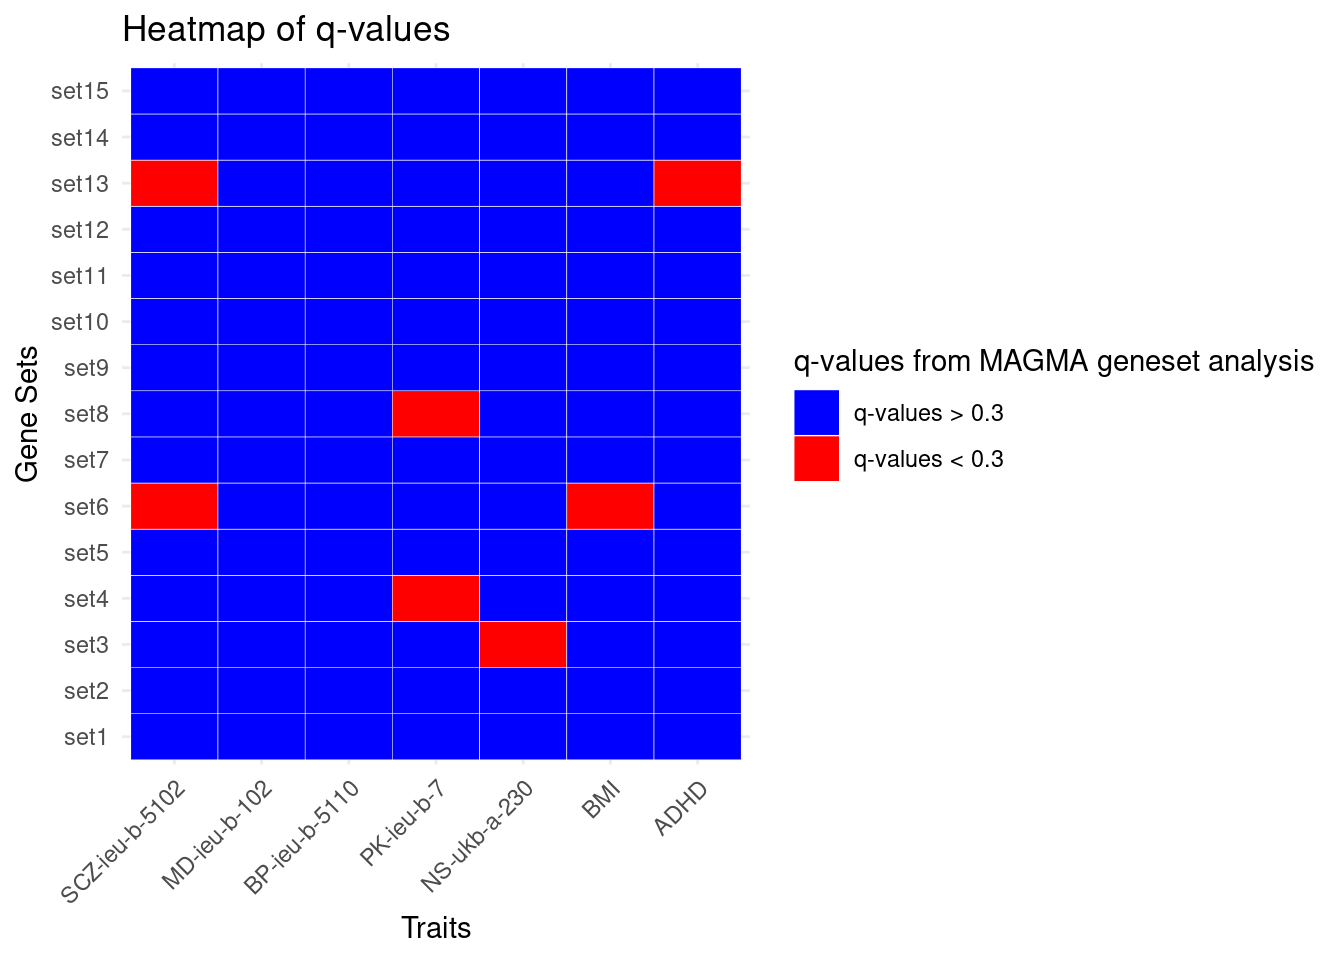
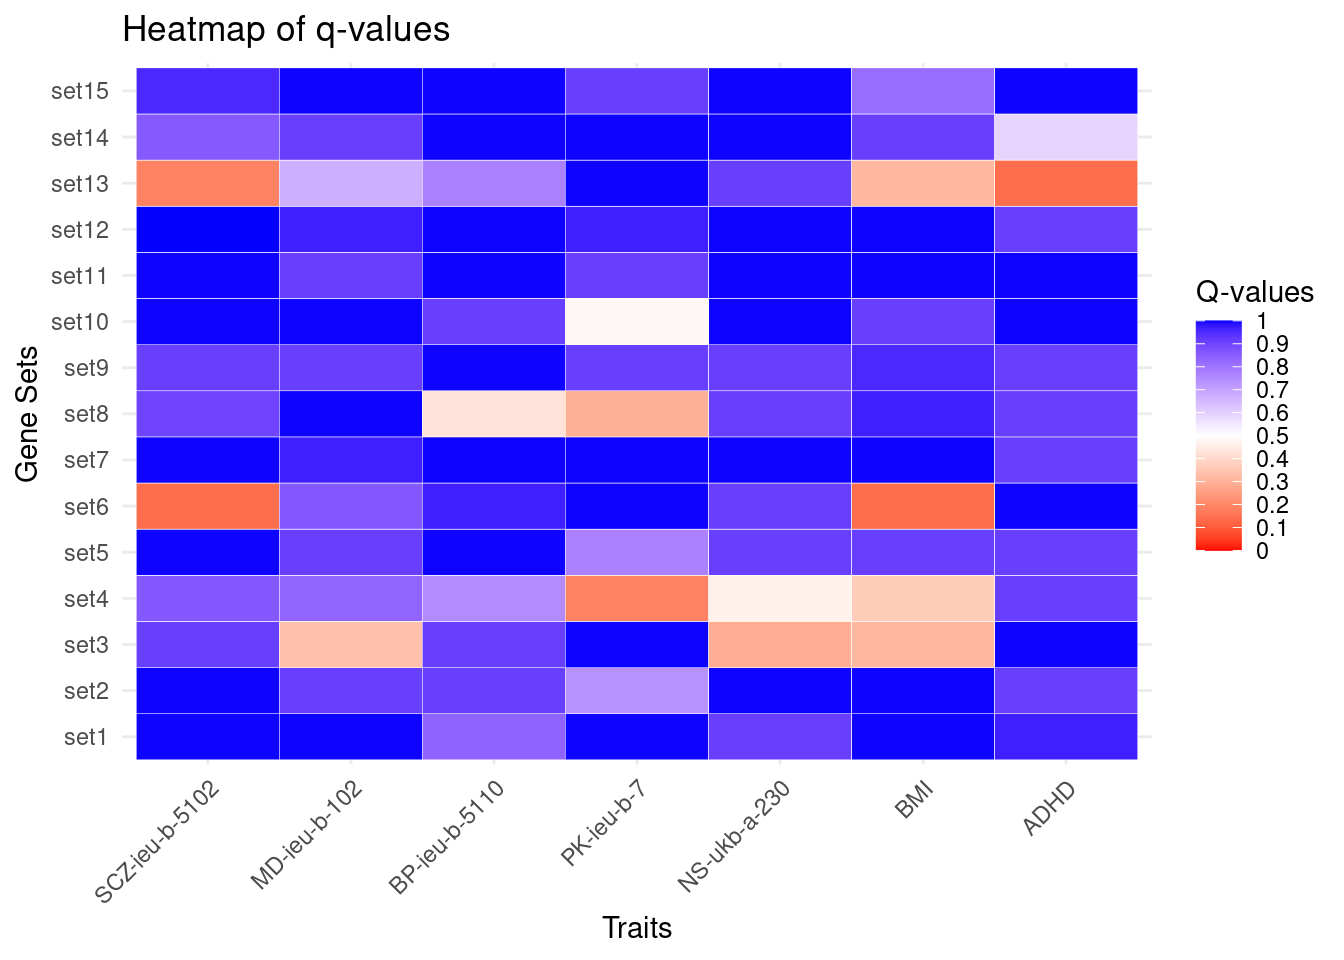
update

diff --git a/docs/magma_geneset_enrichment.html b/docs/magma_geneset_enrichment.html
@@ -410,7 +410,7 @@ aria-hidden="true"></span> </a>
 <div class="tab-content">
 <div id="summary" class="tab-pane fade in active">
 <p>
-<strong>Last updated:</strong> 2024-05-29
+<strong>Last updated:</strong> 2024-05-30
 </p>
 <p>
 <strong>Checks:</strong> <span
@@ -544,15 +544,15 @@ project makes it easier to run your code on other machines.</p>
 <div class="panel panel-default">
 <div class="panel-heading">
 <p class="panel-title">
-<a data-toggle="collapse" data-parent="#workflowr-checks" href="#strongRepositoryversionstrongahrefhttpsgithubcomxsun1229neuronstimulationtree16424ce5be8b5742b1181e495e255a04fc2fa63ctargetblank16424cea">
+<a data-toggle="collapse" data-parent="#workflowr-checks" href="#strongRepositoryversionstrongahrefhttpsgithubcomxsun1229neuronstimulationtreef00cf7a99a756e390bc06f25918119fa895f7e61targetblankf00cf7aa">
 <span class="glyphicon glyphicon-ok text-success"
 aria-hidden="true"></span> <strong>Repository version:</strong>
-<a href="https://github.com/xsun1229/neuron_stimulation/tree/16424ce5be8b5742b1181e495e255a04fc2fa63c" target="_blank">16424ce</a>
+<a href="https://github.com/xsun1229/neuron_stimulation/tree/f00cf7a99a756e390bc06f25918119fa895f7e61" target="_blank">f00cf7a</a>
 </a>
 </p>
 </div>
 <div
[2 lines of base64/hex data omitted]
 class="panel-collapse collapse">
 <div class="panel-body">
 <p>
@@ -562,7 +562,7 @@ reproducibility.
 </p>
 <p>
 The results in this page were generated with repository version
-<a href="https://github.com/xsun1229/neuron_stimulation/tree/16424ce5be8b5742b1181e495e255a04fc2fa63c" target="_blank">16424ce</a>.
+<a href="https://github.com/xsun1229/neuron_stimulation/tree/f00cf7a99a756e390bc06f25918119fa895f7e61" target="_blank">f00cf7a</a>.
 See the <em>Past versions</em> tab to see a history of the changes made
 to the R Markdown and HTML files.
 </p>
@@ -624,6 +624,40 @@ Message
 </tr>
 </thead>
 <tbody>
+<tr>
+<td>
+Rmd
+</td>
+<td>
+<a href="https://github.com/xsun1229/neuron_stimulation/blob/f00cf7a99a756e390bc06f25918119fa895f7e61/analysis/magma_geneset_enrichment.Rmd" target="_blank">f00cf7a</a>
+</td>
+<td>
+XSun
+</td>
+<td>
+2024-05-29
+</td>
+<td>
+update
+</td>
+</tr>
+<tr>
+<td>
+html
+</td>
+<td>
+<a href="https://rawcdn.githack.com/xsun1229/neuron_stimulation/f00cf7a99a756e390bc06f25918119fa895f7e61/docs/magma_geneset_enrichment.html" target="_blank">f00cf7a</a>
+</td>
+<td>
+XSun
+</td>
+<td>
+2024-05-29
+</td>
+<td>
+update
+</td>
+</tr>
 <tr>
 <td>
 Rmd
@@ -876,6 +910,17 @@ Date
 <tbody>
 <tr>
 <td>
+<a href="https://github.com/xsun1229/neuron_stimulation/blob/f00cf7a99a756e390bc06f25918119fa895f7e61/docs/figure/magma_geneset_enrichment.Rmd/unnamed-chunk-4-2.png" target="_blank">f00cf7a</a>
+</td>
+<td>
+XSun
+</td>
+<td>
+2024-05-29
+</td>
+</tr>
+<tr>
+<td>
 <a href="https://github.com/xsun1229/neuron_stimulation/blob/1eea662d424acfdf974168b7759330eb36456482/docs/figure/magma_geneset_enrichment.Rmd/unnamed-chunk-4-2.png" target="_blank">1eea662</a>
 </td>
 <td>
@@ -897,19 +942,65 @@ x 7 traits) using q-values.</p>
 
 load(&quot;/project2/xinhe/xsun/neuron_stimulation/5.magma/results/q_values_matrix.rdata&quot;)
 
-DT::datatable(q_values_matrix,caption = htmltools::tags$caption( style = &#39;caption-side: left; text-align: left; color:black;  font-size:150% ;&#39;,&#39;Gene-set analysis p-values from MAGMA&#39;),options = list(pageLength = 5) )</code></pre>
+DT::datatable(q_values_matrix,caption = htmltools::tags$caption( style = &#39;caption-side: left; text-align: left; color:black;  font-size:150% ;&#39;,&#39;Gene-set analysis q-values from MAGMA&#39;),options = list(pageLength = 5) )</code></pre>
 <div id="htmlwidget-3223eecb5c9cfeed18c6" style="width:100%;height:auto;" class="datatables html-widget"></div>
-<script type="application/json" data-for="htmlwidget-3223eecb5c9cfeed18c6">{"x":{"filter":"none","vertical":false,"caption":"<caption style=\"caption-side: left; text-align: left; color:black;  font-size:150% ;\">Gene-set analysis p-values from MAGMA<\/caption>","data":[["set1","set2","set3","set4","set5","set6","set7","set8","set9","set10","set11","set12","set13","set14","set15"],[0.997449519230769,0.997449519230769,0.91265625,0.861726923076923,0.997449519230769,0.1378475,0.997449519230769,0.902105555555556,0.91265625,0.997449519230769,0.997449519230769,0.99909,0.1844304,0.85929375,0.955029310344828],[0.997449519230769,0.91265625,0.3393495,0.83475,0.91265625,0.861726923076923,0.96857578125,0.997449519230769,0.91265625,0.997449519230769,0.91265625,0.96857578125,0.6722625,0.91265625,0.997449519230769],[0.83849347826087,0.91265625,0.91265625,0.749933333333333,0.997449519230769,0.96857578125,0.997449519230769,0.4243925,0.997449519230769,0.91265625,0.997449519230769,0.997449519230769,0.7719075,0.997449519230769,0.997449519230769],[0.997449519230769,0.735679411764706,0.997449519230769,0.1844304,0.7719075,0.997449519230769,0.997449519230769,0.297825,0.91265625,0.4802025,0.91265625,0.96857578125,0.997449519230769,0.997449519230769,0.91265625],[0.91265625,0.997449519230769,0.2863,0.463857692307692,0.91265625,0.91265625,0.997449519230769,0.91265625,0.91265625,0.997449519230769,0.997449519230769,0.997449519230769,0.91265625,0.997449519230769,0.997449519230769],[0.997449519230769,0.997449519230769,0.312806666666667,0.365800909090909,0.91265625,0.1378475,0.997449519230769,0.96857578125,0.955029310344828,0.91265625,0.997449519230769,0.997449519230769,0.312806666666667,0.91265625,0.81525],[0.96857578125,0.91265625,0.997449519230769,0.91265625,0.91265625,0.997449519230769,0.91265625,0.91265625,0.91265625,0.997449519230769,0.997449519230769,0.91265625,0.1378475,0.591339,0.997449519230769]],"container":"<table class=\"display\">\n  <thead>\n    <tr>\n      <th> <\/th>\n      <th>SCZ-ieu-b-5102<\/th>\n      <th>MD-ieu-b-102<\/th>\n      <th>BP-ieu-b-5110<\/th>\n      <th>PK-ieu-b-7<\/th>\n      <th>NS-ukb-a-230<\/th>\n      <th>BMI<\/th>\n      <th>ADHD<\/th>\n    <\/tr>\n  <\/thead>\n<\/table>","options":{"pageLength":5,"columnDefs":[{"className":"dt-right","targets":[1,2,3,4,5,6,7]},{"orderable":false,"targets":0}],"order":[],"autoWidth":false,"orderClasses":false,"lengthMenu":[5,10,25,50,100]}},"evals":[],"jsHooks":[]}</script>
+<script type="application/json" data-for="htmlwidget-3223eecb5c9cfeed18c6">{"x":{"filter":"none","vertical":false,"caption":"<caption style=\"caption-side: left; text-align: left; color:black;  font-size:150% ;\">Gene-set analysis q-values from MAGMA<\/caption>","data":[["set1","set2","set3","set4","set5","set6","set7","set8","set9","set10","set11","set12","set13","set14","set15"],[0.997449519230769,0.997449519230769,0.91265625,0.861726923076923,0.997449519230769,0.1378475,0.997449519230769,0.902105555555556,0.91265625,0.997449519230769,0.997449519230769,0.99909,0.1844304,0.85929375,0.955029310344828],[0.997449519230769,0.91265625,0.3393495,0.83475,0.91265625,0.861726923076923,0.96857578125,0.997449519230769,0.91265625,0.997449519230769,0.91265625,0.96857578125,0.6722625,0.91265625,0.997449519230769],[0.83849347826087,0.91265625,0.91265625,0.749933333333333,0.997449519230769,0.96857578125,0.997449519230769,0.4243925,0.997449519230769,0.91265625,0.997449519230769,0.997449519230769,0.7719075,0.997449519230769,0.997449519230769],[0.997449519230769,0.735679411764706,0.997449519230769,0.1844304,0.7719075,0.997449519230769,0.997449519230769,0.297825,0.91265625,0.4802025,0.91265625,0.96857578125,0.997449519230769,0.997449519230769,0.91265625],[0.91265625,0.997449519230769,0.2863,0.463857692307692,0.91265625,0.91265625,0.997449519230769,0.91265625,0.91265625,0.997449519230769,0.997449519230769,0.997449519230769,0.91265625,0.997449519230769,0.997449519230769],[0.997449519230769,0.997449519230769,0.312806666666667,0.365800909090909,0.91265625,0.1378475,0.997449519230769,0.96857578125,0.955029310344828,0.91265625,0.997449519230769,0.997449519230769,0.312806666666667,0.91265625,0.81525],[0.96857578125,0.91265625,0.997449519230769,0.91265625,0.91265625,0.997449519230769,0.91265625,0.91265625,0.91265625,0.997449519230769,0.997449519230769,0.91265625,0.1378475,0.591339,0.997449519230769]],"container":"<table class=\"display\">\n  <thead>\n    <tr>\n      <th> <\/th>\n      <th>SCZ-ieu-b-5102<\/th>\n      <th>MD-ieu-b-102<\/th>\n      <th>BP-ieu-b-5110<\/th>\n      <th>PK-ieu-b-7<\/th>\n      <th>NS-ukb-a-230<\/th>\n      <th>BMI<\/th>\n      <th>ADHD<\/th>\n    <\/tr>\n  <\/thead>\n<\/table>","options":{"pageLength":5,"columnDefs":[{"className":"dt-right","targets":[1,2,3,4,5,6,7]},{"orderable":false,"targets":0}],"order":[],"autoWidth":false,"orderClasses":false,"lengthMenu":[5,10,25,50,100]}},"evals":[],"jsHooks":[]}</script>
 <pre class="r"><code>qvals_long &lt;- melt(q_values_matrix, varnames = c(&quot;Set&quot;, &quot;Condition&quot;), value.name = &quot;qval&quot;)
 
-# Plot the heatmap with conditional coloring
-ggplot(qvals_long, aes(x = Condition, y = Set, fill = qval &lt; 0.3)) +
+ggplot(qvals_long, aes(x = Condition, y = Set, fill = qval)) +
   geom_tile(color = &quot;white&quot;) +
-  scale_fill_manual(values = c(&quot;TRUE&quot; = &quot;red&quot;, &quot;FALSE&quot; = &quot;blue&quot;), labels = c(&quot;q-values &gt; 0.3&quot;, &quot;q-values &lt; 0.3&quot;)) +
-  labs(title = &quot;Heatmap of q-values&quot;, x = &quot;Traits&quot;, y = &quot;Gene Sets&quot;, fill = &quot;q-values from MAGMA geneset analysis&quot;) +
+  scale_fill_gradient2(low = &quot;red&quot;, high = &quot;blue&quot;, mid = &quot;white&quot;, midpoint = 0.5,
+                       limit = c(0, 1),        # Adjust if your q-values range is different
+                       breaks = seq(0, 1, 0.1), # Adjust breaks according to your q-values range
+                       labels = seq(0, 1, 0.1)) + # Label adjustments
+  labs(title = &quot;Heatmap of q-values&quot;, x = &quot;Traits&quot;, y = &quot;Gene Sets&quot;, fill = &quot;Q-values&quot;) +
   theme_minimal() +
   theme(axis.text.x = element_text(angle = 45, hjust = 1))</code></pre>
 <p><img src="figure/magma_geneset_enrichment.Rmd/unnamed-chunk-5-2.png" width="672" style="display: block; margin: auto;" /></p>
+<p>
+<button type="button" class="btn btn-default btn-xs btn-workflowr btn-workflowr-fig" data-toggle="collapse" data-target="#fig-unnamed-chunk-5-2">
+Past versions of unnamed-chunk-5-2.png
+</button>
+</p>
+<div id="fig-unnamed-chunk-5-2" class="collapse">
+<div class="table-responsive">
+<table class="table table-condensed table-hover">
+<thead>
+<tr>
+<th>
+Version
+</th>
+<th>
+Author
+</th>
+<th>
+Date
+</th>
+</tr>
+</thead>
+<tbody>
+<tr>
+<td>
+<a href="https://github.com/xsun1229/neuron_stimulation/blob/f00cf7a99a756e390bc06f25918119fa895f7e61/docs/figure/magma_geneset_enrichment.Rmd/unnamed-chunk-5-2.png" target="_blank">f00cf7a</a>
+</td>
+<td>
+XSun
+</td>
+<td>
+2024-05-29
+</td>
+</tr>
+</tbody>
+</table>
+</div>
+</div>
+<pre class="r"><code># Plot the heatmap with conditional coloring
+# ggplot(qvals_long, aes(x = Condition, y = Set, fill = qval &lt; 0.3)) +
+#   geom_tile(color = &quot;white&quot;) +
+#   scale_fill_manual(values = c(&quot;TRUE&quot; = &quot;red&quot;, &quot;FALSE&quot; = &quot;blue&quot;), labels = c(&quot;q-values &gt; 0.3&quot;, &quot;q-values &lt; 0.3&quot;)) +
+#   labs(title = &quot;Heatmap of q-values&quot;, x = &quot;Traits&quot;, y = &quot;Gene Sets&quot;, fill = &quot;q-values from MAGMA geneset analysis&quot;) +
+#   theme_minimal() +
+#   theme(axis.text.x = element_text(angle = 45, hjust = 1))</code></pre>
 <!-- ```{r message=FALSE} -->
 <!-- # Count the number of genes in each cluster -->
 <!-- load("/project2/xinhe/xsun/neuron_stimulation/5.magma/results/fdr_matrix.rdata") -->
